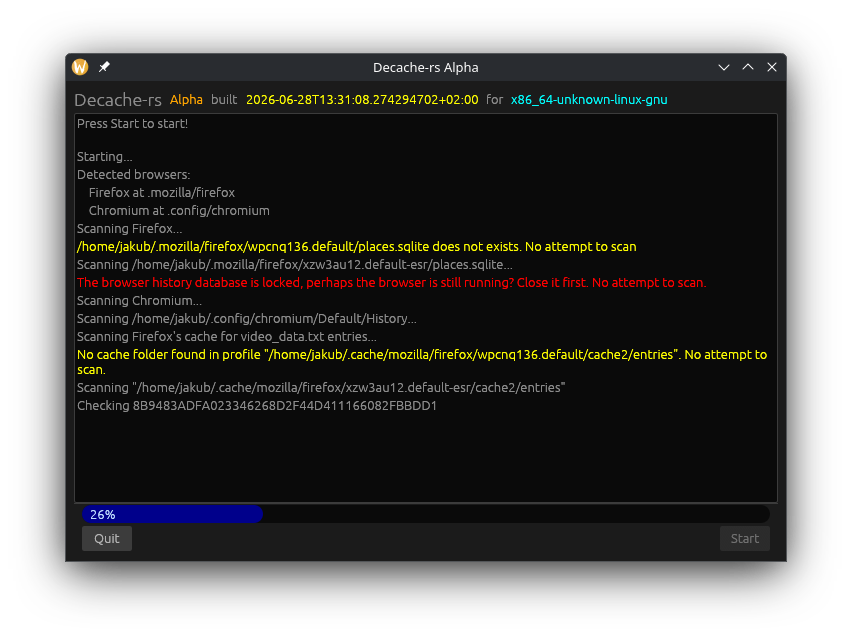
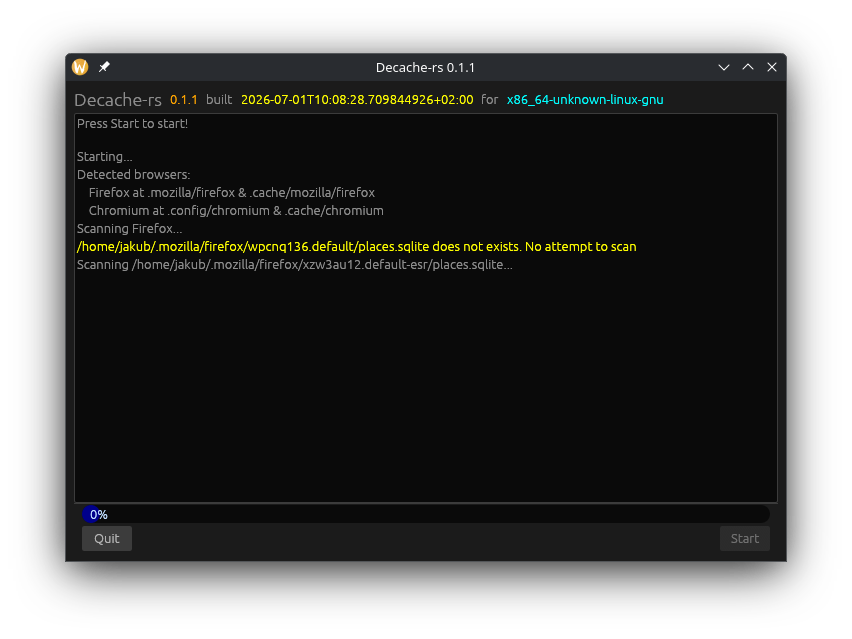
Finished pre-alpha? Repaired sum stuff. Updated README

diff --git a/src/scanner.rs b/src/scanner.rs
@@ -28,7 +28,7 @@ static BASE_DIR: LazyLock<PathBuf> = LazyLock::new(|| {
 
 fn browser_history_scan(browser: &Browser, search_vector: &Vec<String>, tx: &Sender<GuiMessage>) {
     tx.send(GuiMessage::Log(LogMessage {
-        message: format!("Scanning {}...", &browser.name),
+        message: format!("Scanning {}'s browser history...", &browser.name),
         level: LogLevel::Info,
     }))
     .ok();
@@ -151,13 +151,16 @@ fn check_filetype(path: impl AsRef<Path>) -> String {
     }
 }
 
-// Copying from and to (Un)Veryfied dir
+// Copying from and to (Un)Verified dir
 fn safely_copy(source: impl AsRef<Path>, destination: impl AsRef<Path>) -> std::io::Result<()> {
     let (source, destination) = (source.as_ref(), destination.as_ref());
     if !destination.is_file() {
+        if !BASE_DIR.join("Verified").is_dir(){
+            fs::create_dir_all(BASE_DIR.join("Verified"));
+        }
         fs::copy(source, destination)?;
     } else {
-        println!("{} already in {}", source.display(), destination.display());
+        //println!("{} already in {}", source.display(), destination.display());
     }
     Ok(())
 }
@@ -331,7 +334,7 @@ fn browser_cache_video_scan(
 
                         let filetype = check_filetype(&cache_entry_path);
 
-                        if ["mp4", "webm", "flv"].contains(&filetype.as_str()) {
+                        if ["mp4", "webm", "flv"].contains(&filetype.as_str()) { // Shitty solution! Chromium's cache entry (unlike Firefox's) is not just an mp4 with metadata appended!! TODO Change it to i don't fucking know what...
                             //|| infer::is_image(&buf){
                             //println!("{:?}", cache_entry_path);
                             //extract frame and gen hash
@@ -399,8 +402,8 @@ fn browser_cache_video_scan(
                                 .ok();
 
                                 let difference_final = difference_pack.iter().min().unwrap();
-                                // only if difference is less than 5
-                                if *difference_final < 5 as u32 {
+                                // only if difference is less than or equal to 5
+                                if *difference_final <= 5 as u32 {
                                     tx.send(GuiMessage::Log(LogMessage {
                                         message: format!(
                                             "Found a match! Closest difference of {:?} is {:?}!",
@@ -411,7 +414,8 @@ fn browser_cache_video_scan(
                                     .ok();
 
                                     let copy_destination =
-                                        PathBuf::from("./Verified/{}").join(&cache_entry_path);
+                                        BASE_DIR.join("Verified").join(&cache_entry_file_name);
+                                    //println!("{:#?}", copy_destination);
                                     safely_copy(&cache_entry_path, PathBuf::from(copy_destination))
                                         .expect("Couldn't!");
                                 }
@@ -488,7 +492,7 @@ pub fn process(tx: Sender<GuiMessage>) {
     .ok();
     for browser in &detected_browsers {
         tx.send(GuiMessage::Log(LogMessage {
-            message: format!("\t{} at {}", browser.name, browser.config_path),
+            message: format!("\t{} at {} & {}", browser.name, browser.config_path, browser.cache_path),
             level: LogLevel::Info,
         }))
         .ok();

diff --git a/src/main.rs b/src/main.rs
@@ -1,8 +1,7 @@
 //No AI was used to write this program, I have alergy to ai slop.
 //Also, i learned rust like 1 year ago, so this probably can be optimised
-//
 
-// TODO Do something about the ffmpeg bottlneck maybe...
+// TODO Do something about the ffmpeg bottlneck maybe... maybe it could process multiple files in one process instead of calling ffmpeg everytime
 // TODO The most important functions (or all of them) should return Result propperly instead of panicing
 // TODO Chrome/Chromium stores cache in a weird format, process it
 // TODO Original skips looking into cache entries that are from web.archive.org
@@ -13,7 +12,7 @@
 //concentate them
 //
 
-// I wanted to release alpha much earlier but pride month was more important sorry guys :(
+// I wanted to release pre-alpha much earlier but i was bussy in pride month doing real life stuff, sorry guys!
 
 mod browsette;
 mod cache2_entry_metadata;

diff --git a/README.md b/README.md
@@ -3,21 +3,24 @@
 A complete Rust rewrite of Decache by SindexMon https://github.com/SindexMon/decache/ (and all it's components) aimed to have GUI and work on Linux, Windows and Mac.
 It is aimed to be fully compatibile with assets of the original Decache.
 
-![](screenshot.png)
+## pre-Alpha version (0.1.1) for Linux has been released!
 
-## Alpha release for Linux will be released soon!
+> [!CAUTION]
+> This is a pre-Alpha release, expect lots of bugs and not working stuff.
 
-<!--NOT READY YET
-## Alpha version for Linux has been released!
-1. Download precompiled decache-rs from releases.
+> [!NOTE]
+> You need ffmpeg installed on your system for video_data entries to be scanned! For now the software will crash without it.
+
+### How to use:
+
+1. Download precompiled decache-rs from releases
 2. Copy `data` directory from the original Decache
 3. Put it in the same directory as decache-rs executable
 4. Start the program
-
-In alpha version Deache-rs will scan for entries from history_data.txt, video_data.txt and asset_data.txt in browsers' cache directories of your home directory (Supports Firefox, LibreWolf, Chrome and Chromium). It will display positive results (ex "Found XYZ!") as green messages in the log view. Progress of each entry is shown on a progressbar. No found lost media will be sent to SindexMon or anywhere in this version.
+![](screenshot.png)
+In pre-Alpha version Deache-rs will scan for entries from history_data.txt, video_data.txt and asset_data.txt in browsers' cache directories on your linux system (supports Firefox, LibreWolf, Chrome and Chromium, only Firefox and LibreWolf supports asset_data searching for now Chromium and Chrome gives wrong results about asset_data). All the scanning will be done in place (for now only found lost media of video_data.txt will be put into Verified folder (it will be created automaticaly when media will be found). It will display positive results (ex. "Found XYZ!") as green messages in the log view. Progress of each entry is shown on a progressbar. No found lost media will be sent to SindexMon or anywhere in this version.
 
 ### You can build it from source too:
--->
 Use `cargo build --release --target x86_64-unknown-linux-gnu` to build it for linux.
 
 [![Developed by a human not by AI](https://notbyai.fyi/img/developed-by-human-not-by-ai-white.svg)](https://notbyai.fyi/)